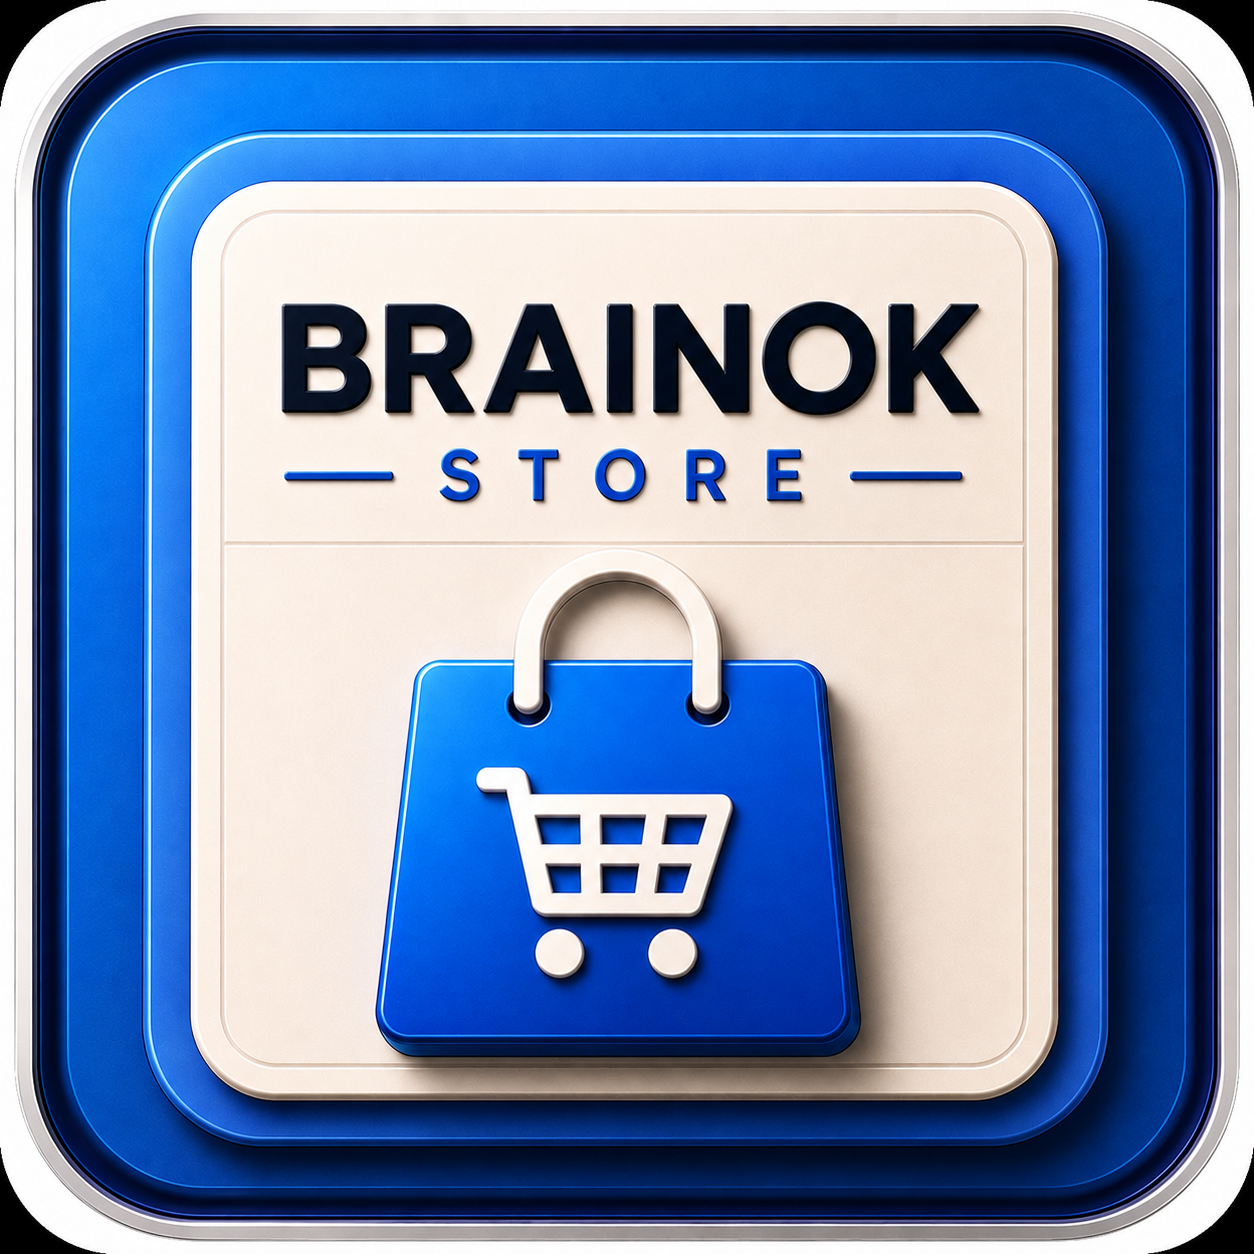
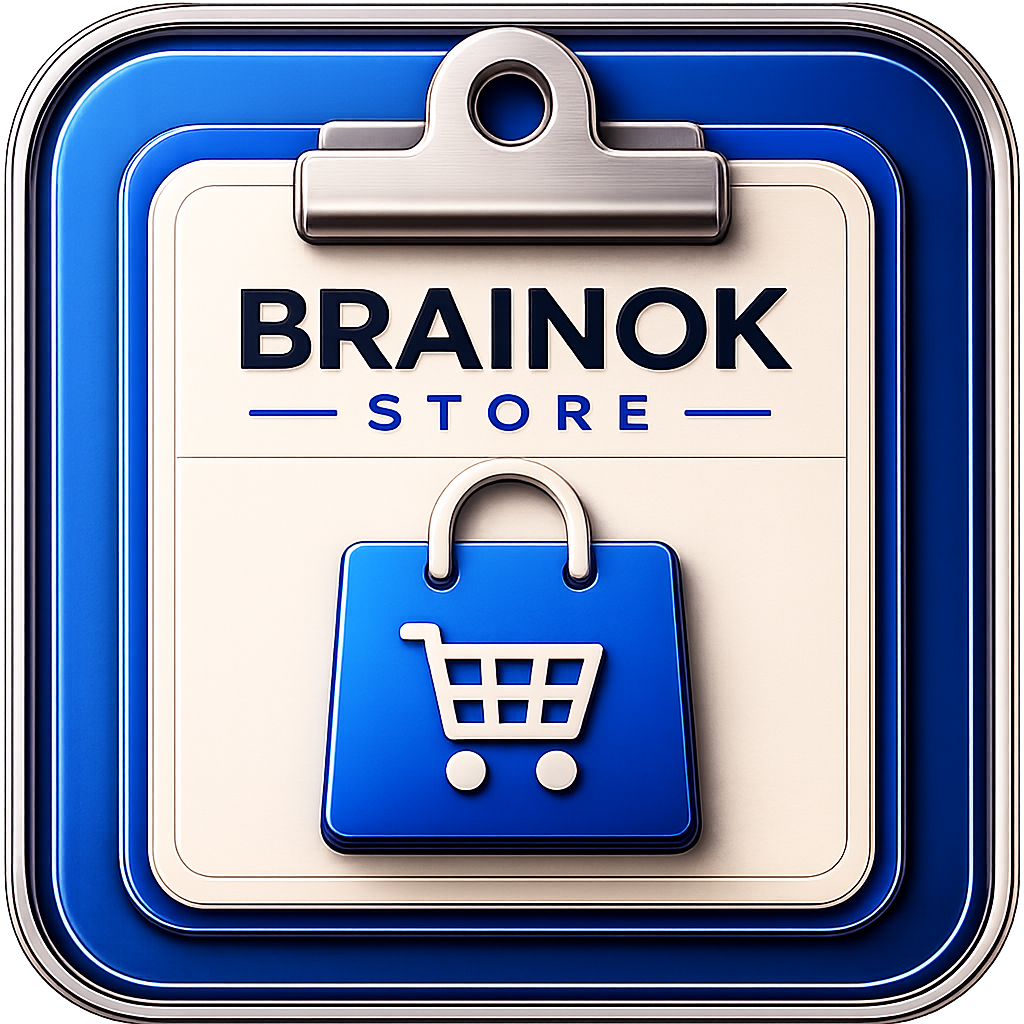
대문 아이콘과 워드마크 변경

diff --git a/web-netlify/src/styles.css b/web-netlify/src/styles.css
@@ -40,7 +40,7 @@ select {
   display: inline-flex;
   align-items: center;
   flex: 1 1 420px;
-  gap: 0;
+  gap: 14px;
   min-width: 0;
   border: 0;
   background: transparent;
@@ -50,13 +50,17 @@ select {
   text-align: left;
 }
 
-.brand strong {
+.brand strong,
+.brand-logo-text {
   font-family:
     "Segoe UI Variable Display", "Segoe UI", Inter, ui-sans-serif, system-ui,
     sans-serif;
-  font-size: 30px;
+  font-size: clamp(28px, 3.2vw, 44px);
   font-weight: 900;
   line-height: 1.05;
+  color: #10223d;
+  letter-spacing: 0;
+  white-space: nowrap;
 }
 
 .brand:focus-visible {
@@ -66,19 +70,29 @@ select {
 }
 
 .brand-mark {
-  width: clamp(82px, 8vw, 124px);
-  height: clamp(82px, 8vw, 124px);
+  width: auto;
+  min-width: 0;
+  height: auto;
   flex: 0 0 auto;
-  display: block;
-  overflow: hidden;
+  display: inline-flex;
+  align-items: center;
+  gap: 14px;
+  overflow: visible;
   border: 0;
   border-radius: 0;
   background: transparent;
   box-shadow: none;
 }
 
-.brand-mark img,
-.download-logo img {
+.brand-logo-icon {
+  width: clamp(82px, 8vw, 118px);
+  height: clamp(82px, 8vw, 118px);
+  flex: 0 0 auto;
+  display: block;
+  overflow: hidden;
+}
+
+.brand-logo-icon img {
   width: 100%;
   height: 100%;
   display: block;
@@ -836,13 +850,25 @@ select {
 }
 
 .download-logo {
-  width: min(360px, 100%);
-  height: 60px;
-  display: block;
-  overflow: hidden;
+  width: auto;
+  max-width: 100%;
+  height: auto;
+  display: inline-flex;
+  align-items: center;
+  gap: 12px;
+  overflow: visible;
   border-radius: 0;
   border: 0;
   background: transparent;
+}
+
+.download-logo .brand-logo-icon {
+  width: 64px;
+  height: 64px;
+}
+
+.download-logo .brand-logo-text {
+  font-size: clamp(26px, 4vw, 38px);
 }
 
 .download-hero-card h2 {

diff --git a/web-netlify/src/App.tsx b/web-netlify/src/App.tsx
@@ -73,7 +73,7 @@ type Language = "ko" | "en";
 type ReadmeLanguage = "en" | "ko";
 type MarkdownDraftField = "description" | "descriptionKo";
 
-const BRAND_LOGO_SRC = "/brainok-store-front-icon.png?v=1";
+const BRAND_LOGO_SRC = "/brainok-store-front-icon.png?v=2";
 const SUBSCRIPTION_REQUEST_EMAIL = "[email redacted]";
 const LOCAL_APP_MEDIA: Record<string, string> = {
   "brainok-pagewheel": "/app-media/brainok-pagewheel.jpg",
@@ -676,7 +676,10 @@ export function App() {
 function BrandLogo({ className }: { className: string }) {
   return (
     <span className={className} aria-hidden="true">
-      <img src={BRAND_LOGO_SRC} alt="" />
+      <span className="brand-logo-icon">
+        <img src={BRAND_LOGO_SRC} alt="" />
+      </span>
+      <span className="brand-logo-text">Brainok Store</span>
     </span>
   );
 }

diff --git a/web-netlify/src/main.tsx b/web-netlify/src/main.tsx
@@ -30,7 +30,10 @@ function MissingConfig({ missingKeys }: { missingKeys: string[] }) {
     <main className="page-shell">
       <section className="setup-panel">
         <span className="brand-mark" aria-hidden="true">
-          <img src="/brainok-store-front-icon.png" alt="" />
+          <span className="brand-logo-icon">
+            <img src="/brainok-store-front-icon.png" alt="" />
+          </span>
+          <span className="brand-logo-text">Brainok Store</span>
         </span>
         <h1>Firebase config is required</h1>
         <p>